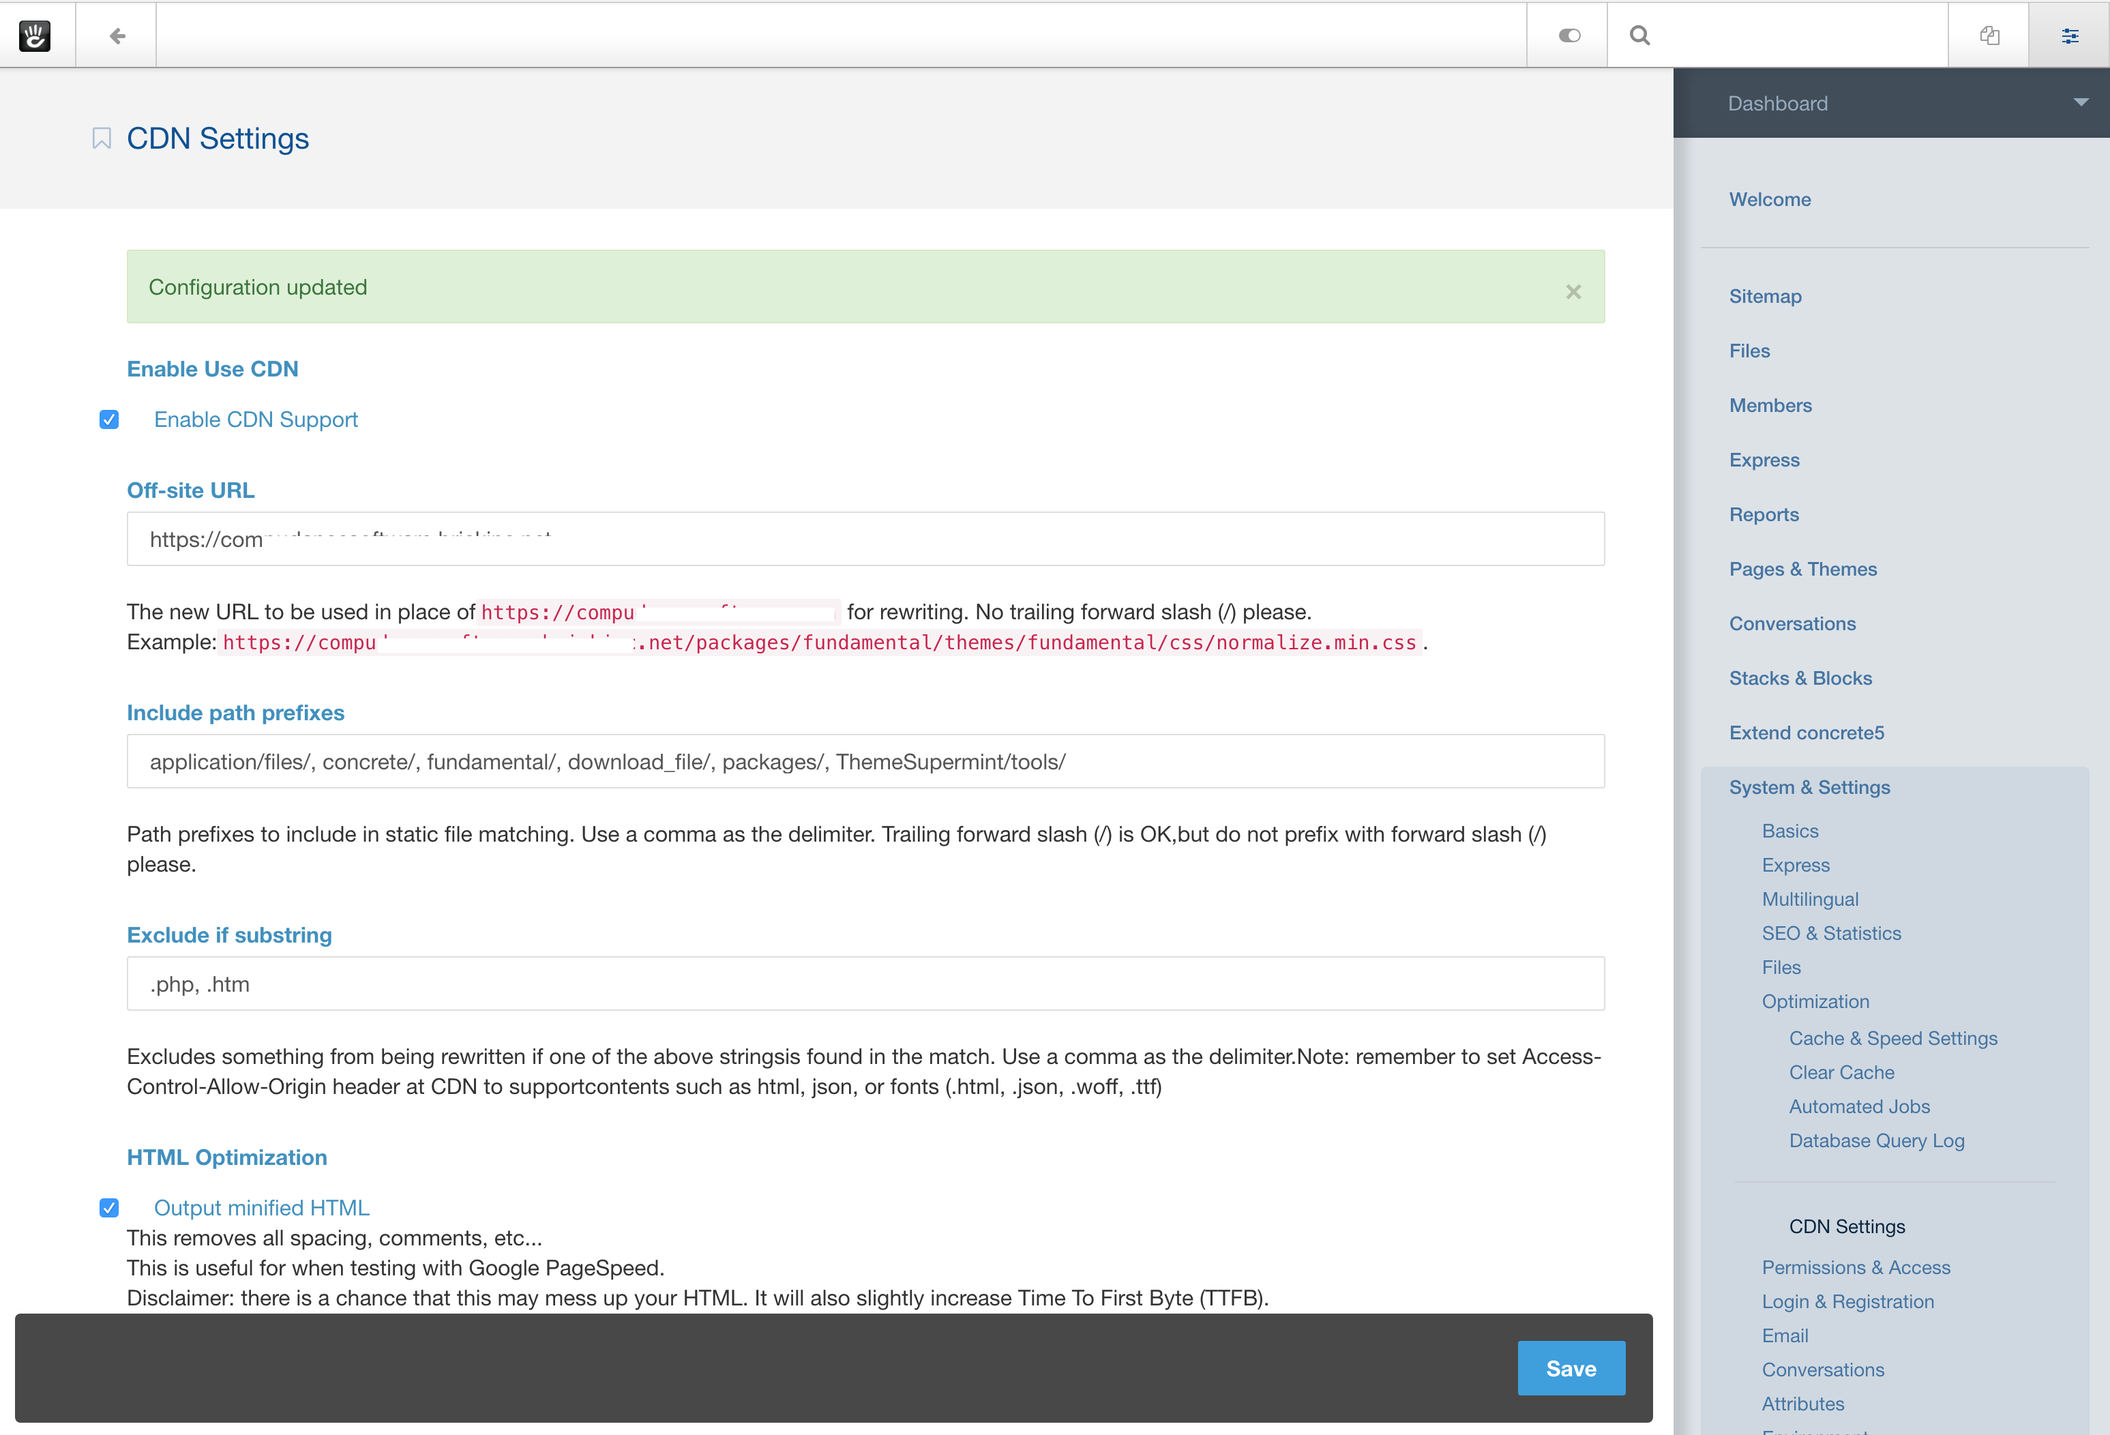
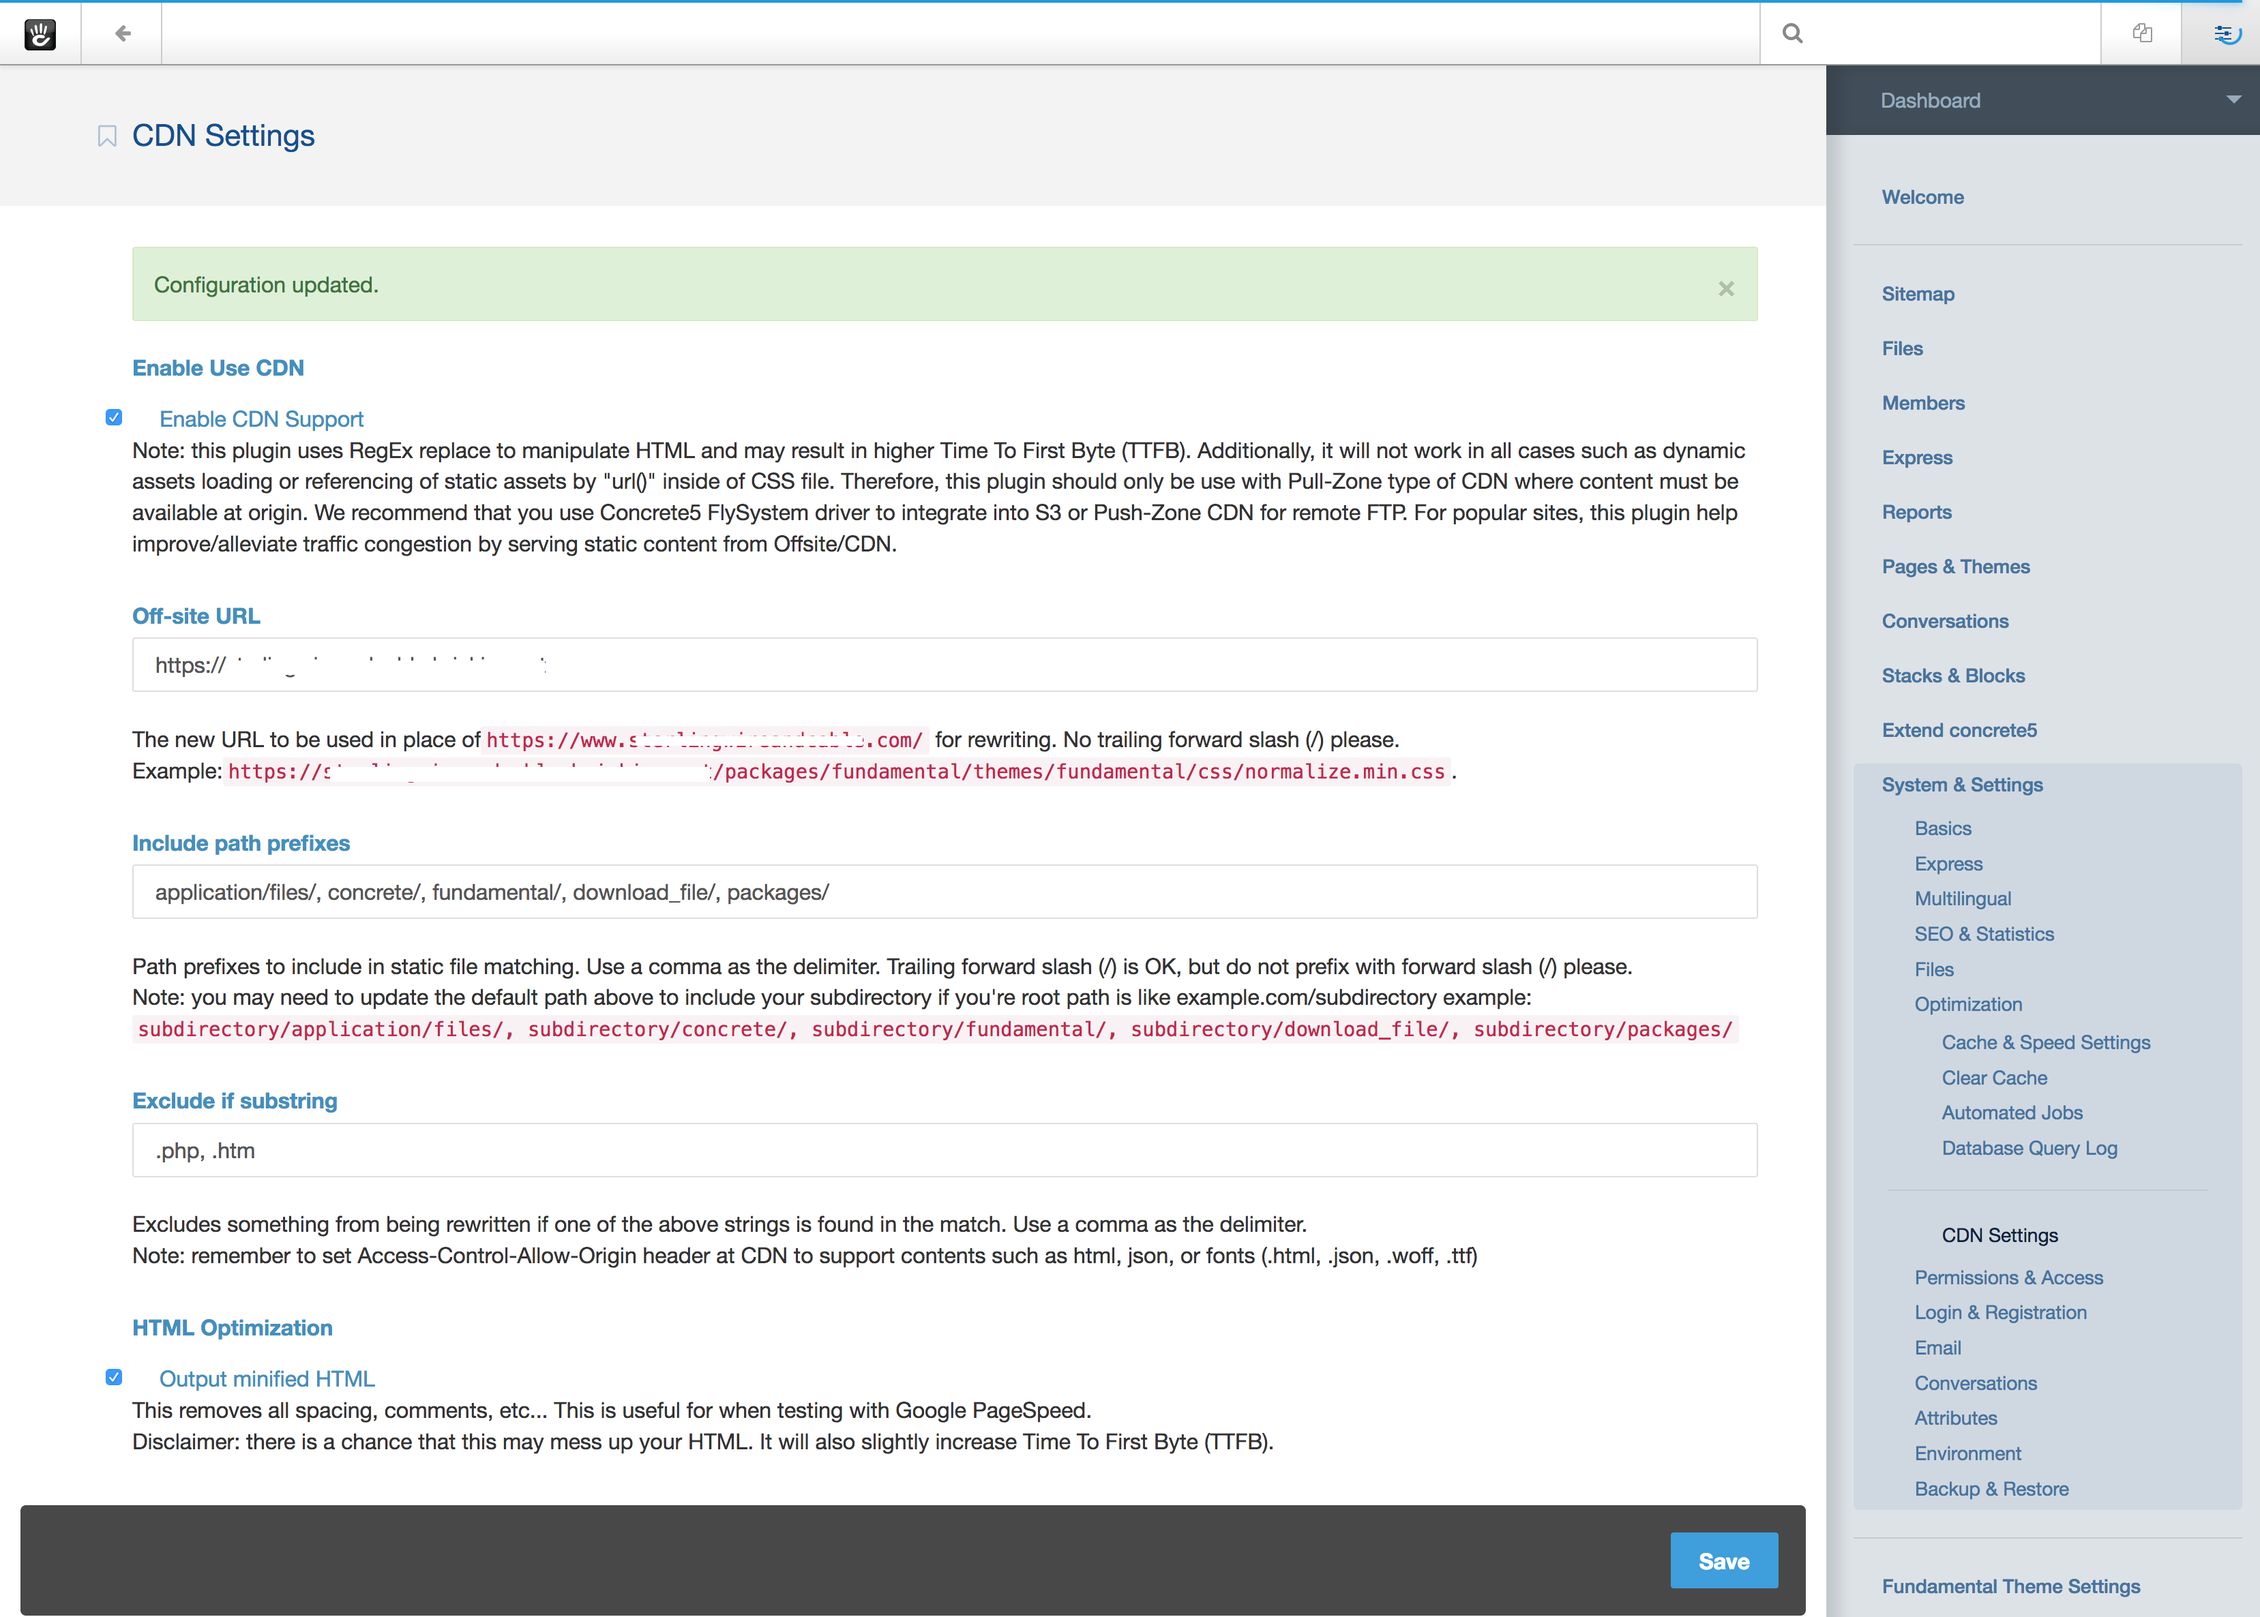
update documentation

diff --git a/niiknow_cdn/single_pages/dashboard/system/optimization/niiknowcdn.php b/niiknow_cdn/single_pages/dashboard/system/optimization/niiknowcdn.php
@@ -11,7 +11,9 @@ $action = $this->action('saveSettings');
     <div class="clearfix ccm-pane-body">
         <div class="form-group">
           <label class="control-label"><?php echo t('Enable Use CDN'); ?></label>
-          <div class="checkbox"><?php echo $form->checkbox('CDN_ENABLED', 1, $CDN_ENABLED); ?><?php echo $form->label('CDN_ENABLED', t('Enable CDN Support')); ?></div>
+          <div class="checkbox"><?php echo $form->checkbox('CDN_ENABLED', 1, $CDN_ENABLED); ?><?php echo $form->label('CDN_ENABLED', t('Enable CDN Support')); ?><br>
+<?php echo t('Note: this plugin uses RegEx replace to manipulate HTML and may result in higher Time To First Byte (TTFB).  Additionally, it will not work in all cases such as dynamic assets loading or referencing of static assets by "url()" inside of CSS file. Therefore, this plugin should only be use with Pull-Zone type of CDN where content must be available at origin. We recommend that you use Concrete5 FlySystem driver to integrate into S3 or Push-Zone CDN for remote FTP.  For popular sites, this plugin help improve/alleviate traffic congestion by serving static content from Offsite/CDN.'); ?>
+          </div>
         </div>
 
         <div class="form-group">
@@ -29,19 +31,20 @@ $action = $this->action('saveSettings');
             <?php echo $form->label('CDN_INCLUDE_PATH', t('Include path prefixes')); ?>
             <?php echo $form->text('CDN_INCLUDE_PATH', $CDN_INCLUDE_PATH, array('class' => '', 'size' => '64')); ?><br />
             <span class="description">
-<?php echo t('Path prefixes to include in static file matching. Use a comma as the delimiter. Trailing forward slash (/) is OK,'); ?>
-<?php echo t('but do not prefix with forward slash (/) please.'); ?>
+<?php echo t('Path prefixes to include in static file matching. Use a comma as the delimiter. Trailing forward slash (/) is OK, '); ?>
+<?php echo t('but do not prefix with forward slash (/) please.'); ?> <br />
+<?php echo t('Note: you may need to update the default path above to include your subdirectory.  If your root path is example.com/subdirectory, then it should be:'); ?> <br>
+<code>subdirectory/application/files/, subdirectory/concrete/, subdirectory/fundamental/, subdirectory/download_file/, subdirectory/packages/</code>
             </span>
-
         </div>
 
         <div class="form-group">
             <?php echo $form->label('CDN_EXCLUDE_SUBSTRINGS', t('Exclude if substring')); ?>
             <?php echo $form->text('CDN_EXCLUDE_SUBSTRINGS', $CDN_EXCLUDE_SUBSTRINGS, array('class' => '', 'size' => '64')); ?><br />
             <span class="description">
-<?php echo t('Excludes something from being rewritten if one of the above strings'); ?>
-<?php echo t('is found in the match. Use a comma as the delimiter.'); ?>
-<?php echo t('Note: remember to set Access-Control-Allow-Origin header at CDN to support'); ?>
+<?php echo t('Excludes something from being rewritten if one of the above strings is found in the match. '); ?>
+<?php echo t('Use a comma as the delimiter.'); ?> <br />
+<?php echo t('Note: remember to set Access-Control-Allow-Origin header at CDN to support '); ?>
 <?php echo t('contents such as html, json, or fonts (.html, .json, .woff, .ttf)'); ?>
             </span>
         </div>
@@ -51,8 +54,7 @@ $action = $this->action('saveSettings');
             <div class="checkbox">
            <?php echo $form->checkbox('CDN_MINIFY_HTML', 1, $CDN_MINIFY_HTML); ?> <?php echo $form->label('CDN_MINIFY_HTML', t('Output minified HTML')); ?><br/>
   <span class="description">
-<?php echo t('This removes all spacing, comments, etc...'); ?> <br />
-<?php echo t('This is useful for when testing with Google PageSpeed.'); ?> <br />
+<?php echo t('This removes all spacing, comments, etc... This is useful for when testing with Google PageSpeed.'); ?> <br />
 <?php echo t('Disclaimer: there is a chance that this may mess up your HTML.  It will also slightly increase Time To First Byte (TTFB).'); ?>
             </span>
         </div>

diff --git a/niiknow_cdn/controller.php b/niiknow_cdn/controller.php
@@ -7,13 +7,14 @@ use Concrete\Core\Package\Package;
 use Concrete\Core\Page\Page as Page;
 use Concrete\Core\Page\Single as SinglePage;
 use Concrete\Core\Support\Facade\Events;
+use Concrete\Core\Support\Facade\Facade;
 use Permissions;
 
 class Controller extends Package
 {
     protected $pkgHandle          = 'niiknow_cdn';
     protected $appVersionRequired = '5.7.0.4';
-    protected $pkgVersion         = '0.1.2';
+    protected $pkgVersion         = '0.1.3';
 
     public function getPackageDescription()
     {
@@ -80,11 +81,10 @@ class Controller extends Package
 
     public function getSiteUrl()
     {
-        // build base url from server info and REL_DIR
-        $base_uri = (isset($_SERVER['HTTPS']) ? "https" : "http") . "://$_SERVER[HTTP_HOST]/" . REL_DIR_APPLICATION;
-
-        // trim any trailing slash or spaces
-        return preg_replace('/[\s\/]*$/', '', $base_uri);
+       
+        $app = Facade::getFacadeApplication();
+        $base_uri = $app->make('url/canonical');
+        return $base_uri;
     }
 
     public function install()

diff --git a/niiknow_cdn/controllers/single_page/dashboard/system/optimization/niiknowcdn.php b/niiknow_cdn/controllers/single_page/dashboard/system/optimization/niiknowcdn.php
@@ -23,7 +23,7 @@ class NiiknowCdn extends DashboardPageController
 
     public function success()
     {
-        $this->set('success', t('Configuration updated'));
+        $this->set('success', t('Configuration updated.'));
         $this->view();
     }
 
@@ -36,7 +36,7 @@ class NiiknowCdn extends DashboardPageController
         $pkg->setExcludeSubstrings($this->post('CDN_EXCLUDE_SUBSTRINGS'));
         $pkg->setMinifyHtml($this->post('CDN_MINIFY_HTML'));
 
-        // redirec to success message
+        // redirect to success message
         $this->redirect('/dashboard/system/optimization/niiknowcdn/success');
     }
 }
